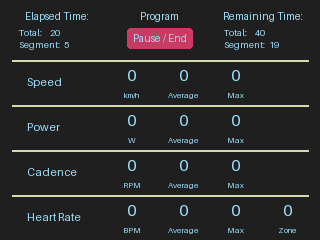
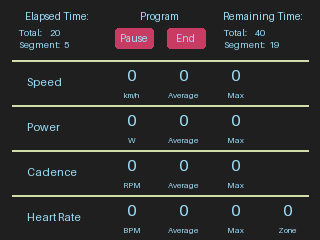
backend 50% done

Changed region(s): [[0.3438, 0.1167, 0.6562, 0.2042]]

diff --git a/controler.py b/controler.py
@@ -3,7 +3,7 @@ import configparser
 import queue
 from   workouts    import WorkoutManager
 from   BLE_Device  import HeartRateMonitor, FitnessMachine
-from   datatypes   import DataContainer, UserList
+from   datatypes   import DataContainer, UserList, QueueEntry
 from   screen      import ScreenManager, TouchScreen
 
 
@@ -67,7 +67,20 @@ class Supervisor:
         dataAndFlagContainer.programmeRunningFlag = False
         print("Supervisor Closed")
 
+    def isInsideBoundaryBox(self, touchPoint: tuple, boundaryBox: tuple):
+        
+        x_touch, y_touch = touchPoint
+        x1_box, y1_box, x2_box, y2_box = boundaryBox
+
+        if x_touch >= x1_box and x_touch <= x2_box:
+            if y_touch >= y1_box and y_touch <= y2_box:
+                return True
+            
+        return False
+
+
     async def loopy(self):
+
         dataAndFlagContainer.assignUser(userList.listOfUsers[0])
         lcd.assignDataContainer(dataAndFlagContainer)
         
@@ -77,45 +90,85 @@ class Supervisor:
                     print("state: Main menu")
                     touchActiveRegions = lcd.drawPageMainMenu()
                     while self.state == "MainMenu":
+                        lcd.drawPageMainMenu()
                         touch, location = touchScreen.checkTouch()
                         if touch == True:
                             for region in touchActiveRegions:
-                                if location[0] >= region[0][0] and location[1] >= region[0][1] and location[3] <= region[0][3] and location[4] <= region[0][4]:
+                                boundary, value = region    #### unpack the tuple containing the area xy tuple and the value
+                                if self.isInsideBoundaryBox(touchPoint=location, boundaryBox=boundary):
                                     self.oldState = self.state
-                                    self.state = region[1]
+                                    self.state = value
+                        asyncio.sleep(0.1)
 
                 case "RideProgramme":
-                    print("state: Ride a Programme")
+
                     if self.oldState == "MainMenu": ## if coming from the menu then go to prog select first 
                         self.oldState = "RideProgramme"
                         self.state = "ProgSelect"
                         break
                     else:
+                        if device_heartRateSensor.connectionState == True:
+                            device_heartRateSensor.subscribeToService()
+                        if device_turboTrainer.connectionState == True:
+                            device_turboTrainer.subscribeToService(device_turboTrainer.UUID_indoor_bike_data)
                         #### if coming from prog select then start the workout
-                        pass
+                        touchActiveRegions = lcd.drawPageWorkout("Program", "PROGRAM")
+                        workoutManager.startWorkout(self.selectedProgramme)
+                        await asyncio.sleep(2)
+                        while workoutManager.state != "IDLE":
+                            touch, location = touchScreen.checkTouch()
+                            if touch == True:
+                                for region in touchActiveRegions:
+                                    boundary, value = region    #### unpack the tuple containing the area xy tuple and the value
+                                    if self.isInsideBoundaryBox(touchPoint=location, boundaryBox=boundary):
+                                        
+                                        if value == "End":
+                                            workoutManager.queue.put(QueueEntry("Stop", 0))
+
+                                        elif workoutManager.state == "PROGRAM":
+                                            workoutManager.queue.put(QueueEntry("Pause", 0))
+
+                                        else:
+                                            workoutManager.queue.put(QueueEntry("Start", 0))
+
+                            lcd.drawPageWorkout("Program", workoutManager.state)
+                            asyncio.sleep(0.1)
+                        
 
                 case "ProgEdit":
-                    print("state: Programme editor")
+
                     if self.oldState == "MainMenu": ## if coming from the menu then go to prog select first 
                         self.oldState = "ProgEdit"
                         self.state = "ProgSelect"
                         break
                     else:
                         #### if coming from prog select then start the workout
+                        #self.selectedProgramme
                         pass
+                
+                
                 case "ProgSelect":
-                    print("state: Programme selector")
-                    ##select a programme
 
-                    ## then go back to the correct state
-                    self.state = self.oldState
-                    self.oldState = "ProgEdit"
+                    workoutParametres = workoutManager.workouts.getListOfWorkoutParametres(0,3)
+                    touchActiveRegions = lcd.drawProgrammeSelector(workoutParametres)
+
+                    while self.state == "ProgSelect":
+                        touch, location = touchScreen.checkTouch()
+                        if touch == True:
+                            for region in touchActiveRegions:
+                                boundary, value = region    #### unpack the tuple containing the area xy tuple and the value
+
+                                if self.isInsideBoundaryBox(touchPoint=location, boundaryBox=boundary):
+                                    self.selectedProgramme = value
+                                    ## then go back to the correct state
+                                    self.state = self.oldState
+                                    self.oldState = "ProgSelect"
+                                    break
+                        asyncio.sleep(0.1)
 
                 case "Settings":
                     print("state: Programme selector")
         
-
-
 
     
 supervisor = Supervisor()

diff --git a/screen.py b/screen.py
@@ -495,6 +495,7 @@ class ScreenManager:
             box_centre_xy = (box_xy[0][0] + box_width / 2, box_xy[0][1] + box_height / 2)
             
             font = ImageFont.load_default(10)
+            
             draw.text(xy = (box_centre_xy[0], box_centre_xy[1]-12), 
                     text = box_Labels[i][0], # Box title
                     fill = self.COLOUR_TEXT_LIGHT,
@@ -503,31 +504,34 @@ class ScreenManager:
             
             if i == 1:  # central box, 
                 
-                start_stop_button_dims = (65, 20)
-                start_stop_button_xy = ((self.WIDTH - start_stop_button_dims[0]) / 2, (Y_POS_SECTIONS - start_stop_button_dims[1]) / 2 + 8,
-                                        (self.WIDTH + start_stop_button_dims[0]) / 2, (Y_POS_SECTIONS + start_stop_button_dims[1]) / 2 + 8)
-                                        
-               
-                draw.rounded_rectangle(xy = start_stop_button_xy,
-                                radius = 3,
-                                fill = self.COLOUR_BUTTON,
-                                outline = self.COLOUR_BUTTON,
-                                width = 2)
-                
-                touchActiveRegions += ((start_stop_button_xy, "button"),)
-
-
                 if workoutState == "FREERIDE" or workoutState == "PROGRAM":
-                    button_label = "Pause / End"
+                    button_label = "Pause"
                 else:
                     button_label = "Resume" 
+                
+                button_dims = (38, 20)
+                button_x_separation = 14
+                
+                button_xy = ((self.WIDTH / 2 - button_dims[0] - button_x_separation/2), (Y_POS_SECTIONS - button_dims[1]) / 2 + 8,
+                             (self.WIDTH / 2 - button_x_separation/2), (Y_POS_SECTIONS + button_dims[1]) / 2 + 8)
+                                        
+                button_centre = ((button_xy[2] + button_xy[0])/2, (button_xy[3] + button_xy[1])/2)
+                draw.rounded_rectangle(xy = button_xy, radius = 3, fill = self.COLOUR_BUTTON, 
+                                       outline = self.COLOUR_BUTTON, width = 2)
+                draw.text(xy = button_centre, text = button_label, fill = self.COLOUR_TEXT_LIGHT, font = font, anchor="mm")
+                touchActiveRegions += ((button_xy, "Pause"),)
 
-                font = ImageFont.load_default(10)
-                draw.text(xy = (self.WIDTH / 2, Y_POS_SECTIONS / 2 + 8), 
-                    text = button_label,
-                    fill = self.COLOUR_TEXT_LIGHT,
-                    font = font,
-                    anchor="mm")
+
+                button_xy = ((self.WIDTH / 2 + button_x_separation/2), (Y_POS_SECTIONS - button_dims[1]) / 2 + 8,
+                             (self.WIDTH / 2 + button_x_separation/2 + button_dims[0]), (Y_POS_SECTIONS + button_dims[1]) / 2 + 8)
+                
+                button_centre = ((button_xy[2] + button_xy[0])/2, (button_xy[3] + button_xy[1])/2)
+
+                draw.rounded_rectangle(xy = button_xy, radius = 3, fill = self.COLOUR_BUTTON,
+                                        outline = self.COLOUR_BUTTON, width = 2)
+                
+                touchActiveRegions += ((button_xy, "End"),)
+                draw.text(xy = button_centre, text = "End", fill = self.COLOUR_TEXT_LIGHT, font = font, anchor="mm")
 
                 # no extra info to print, skip the rest of the iteration
                 continue
@@ -670,8 +674,8 @@ data.workoutTime = 20
 
 lcd = ScreenManager()
 lcd.assignDataContainer(data)
-#lcd.drawPageWorkout("Program", "PROGRAM")
-lcd.drawPageMainMenu()
+lcd.drawPageWorkout("Program", "PROGRAM")
+#lcd.drawPageMainMenu()
 
 
 workouts = Workouts()

diff --git a/datatypes.py b/datatypes.py
@@ -7,6 +7,15 @@ from collections import namedtuple
 User = namedtuple("User", ["Name", "Max_HR", "FTP"])
 WorkoutParameters = namedtuple("WorkoutParameters", ["name", "totalDuration", "avgPower", "maxPower", "totalWork", "avgLevel", "segmentsChartData", "minPower"])
 
+
+
+class MinMaxIncrement:
+    def __init__(self) -> None:
+        self.min = 0
+        self.max = 0
+        self.increment = 0
+
+        
 class UserList:
     def __init__(self) -> None:
         
@@ -25,11 +34,6 @@ class UserList:
 
 
 
-class MinMaxIncrement:
-    def __init__(self) -> None:
-        self.min = 0
-        self.max = 0
-        self.increment = 0
 
 
 #class WorkoutParameters:
